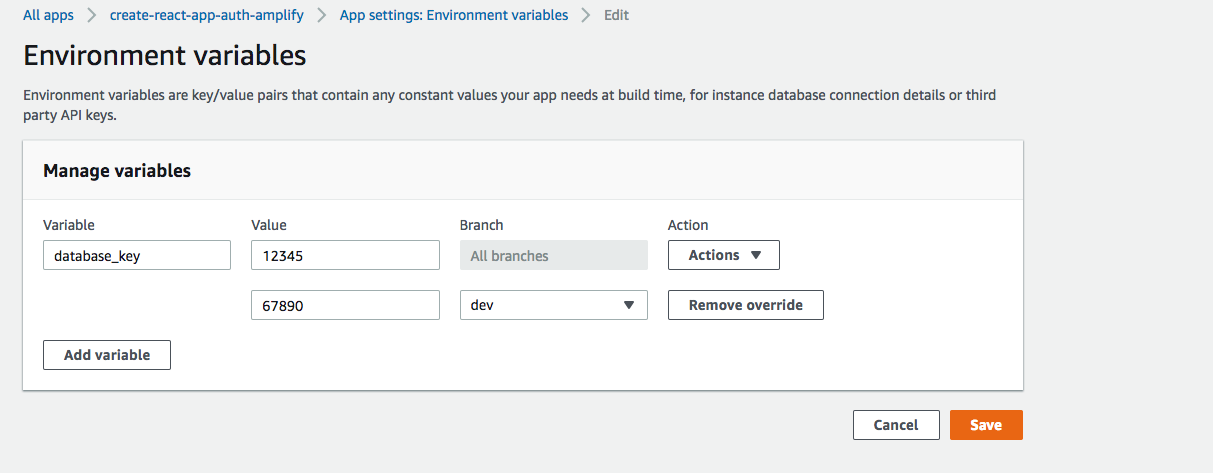
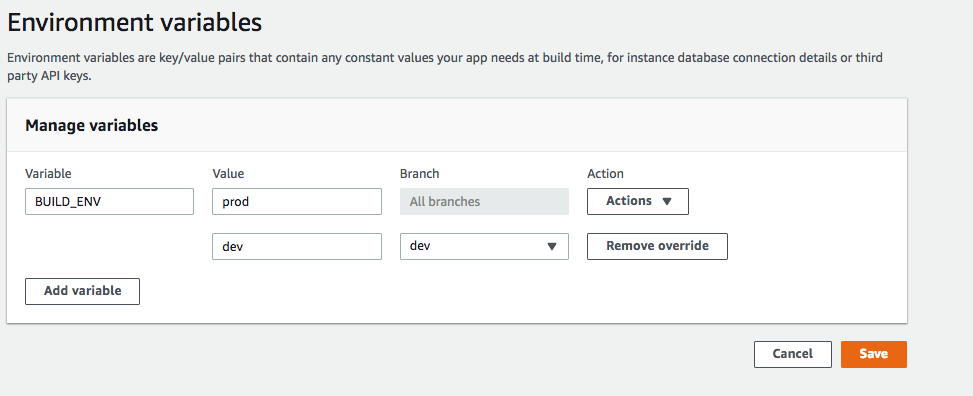
accessing environment variables

diff --git a/doc_source/environment-variables.rst b/doc_source/environment-variables.rst
@@ -1,7 +1,7 @@
 .. _environment-variables:
 
 #############################
-Setting Environment Variables
+Environment Variables
 #############################
 
 Environment variables are key-value pairs that are available at build time. These configurations can be anything, including:
@@ -13,6 +13,11 @@ Environment variables are key-value pairs that are available at build time. Thes
 
 As a best practice, you can use environment variables to expose these configurations. All environment variables that you add are encrypted to prevent rogue access so you can use them to store secret information.
 
+.. _setting_env_vars: 
+ 
+Setting Environment Variables
+========================
+
 #. In the Amplify console, choose **App Settings** and then choose **Environment Variables**.
 
 #. In the **key** and **value** fields, enter all your app environment variables. By default, the Amplify console applies the environment variables across all branches, so you don't have to re-enter variables when you connect a new branch. 
@@ -22,3 +27,20 @@ As a best practice, you can use environment variables to expose these configurat
 If you need to customize a variable specifically for a branch, you can add a branch override. To do this, choose **Actions** and then choose **Add variable override**. You now have a set of environment variables specific to your branch. 
 
 .. image:: images/envvars.png
+
+.. _access_env_vars: 
+
+Accessing Environment Variables
+========================
+
+To access an environment variable during a build, edit your build settings to include the environment variable in your build commands.
+
+#. In the Amplify console, choose **App Settings**, choose **Build settings**, and then choose **Edit**.
+   
+#. Add the environment variable to your build command. You should now be able to access your environment variable during your next build.
+
+    .. code-block:: yaml
+
+	    build:
+	      commands:
+	        - npm run build:$BUILD_ENV

diff --git a/doc_source/index.rst b/doc_source/index.rst
@@ -26,7 +26,7 @@ AWS Amplify Console User Guide
    Using Redirects <redirects>
    Restricting Access <access-control>
    Configuring Build Settings <build-settings>
-   Setting Environment Variables <environment-variables>
+   Environment Variables <environment-variables>
    Connecting to Third-Party Custom Domains  <howto-third-party-domains>
    Creating a Service Role  <how-to-service-role-amplify-console>
    Managing Your App's Performance <ttl>
